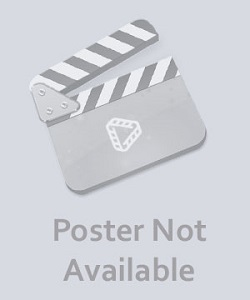
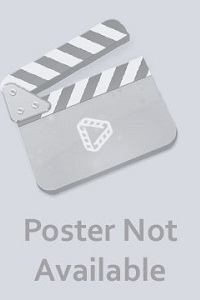
revisión

diff --git a/src/components/Movie.vue b/src/components/Movie.vue
@@ -17,7 +17,7 @@
           <img 
             :src="srcPoster"
             height="300" 
-            class="mt-4 ml-10 mr-10"
+            class="mt-4"
             />
     </v-container>
     <v-card-subtitle class="pa-0 ma-0">
